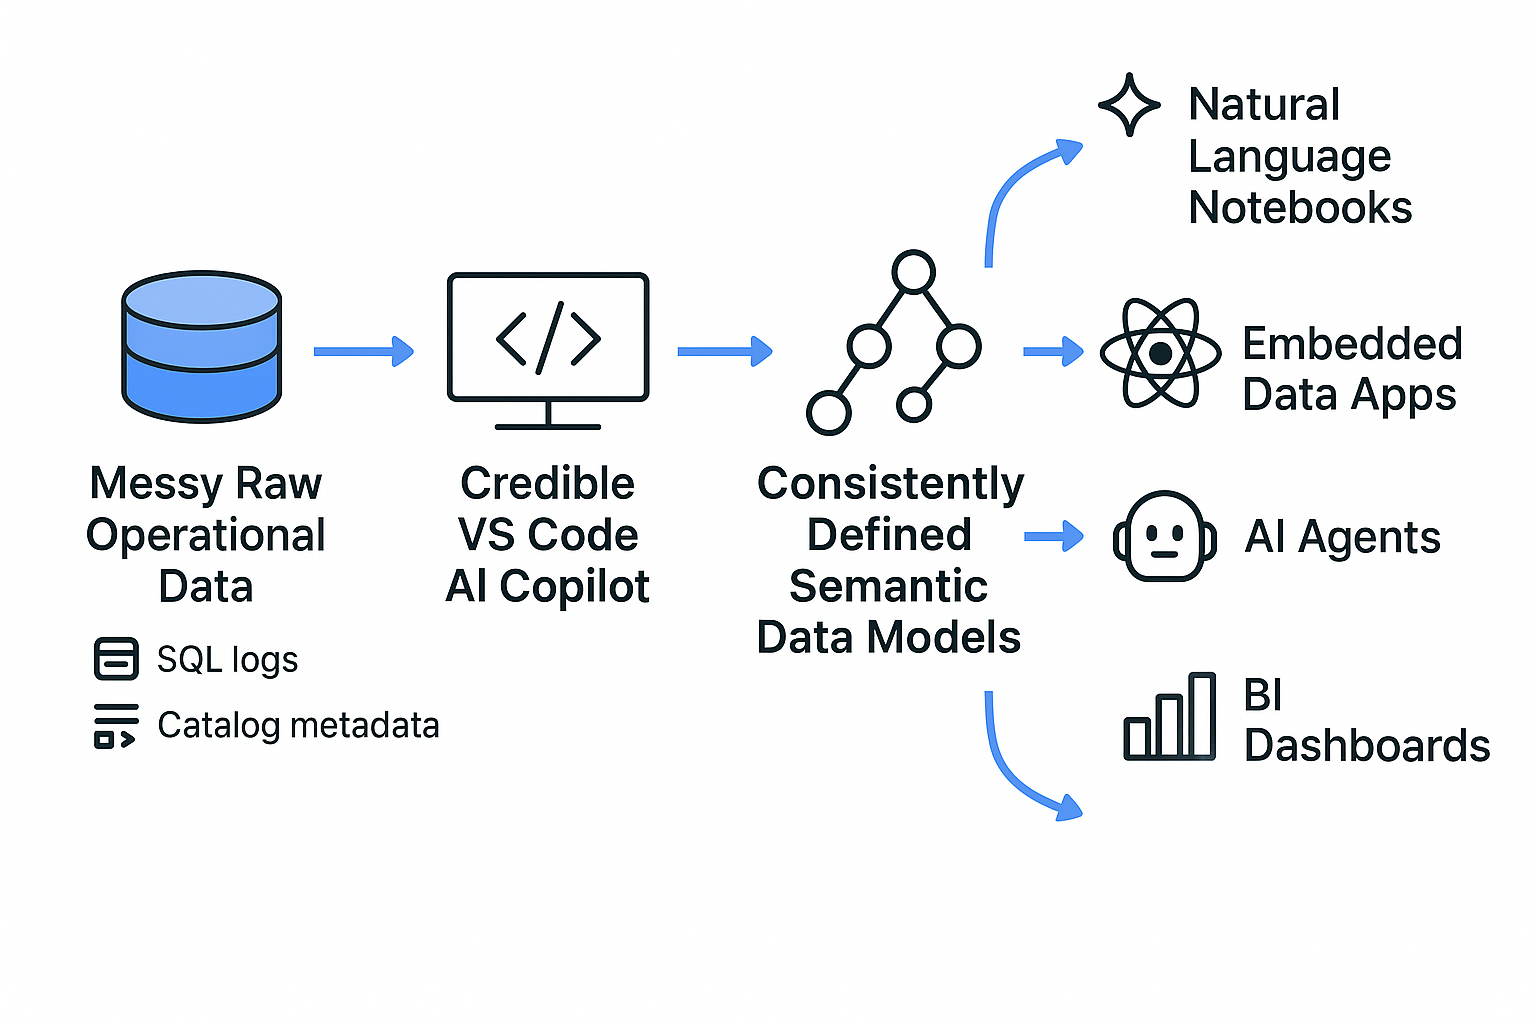
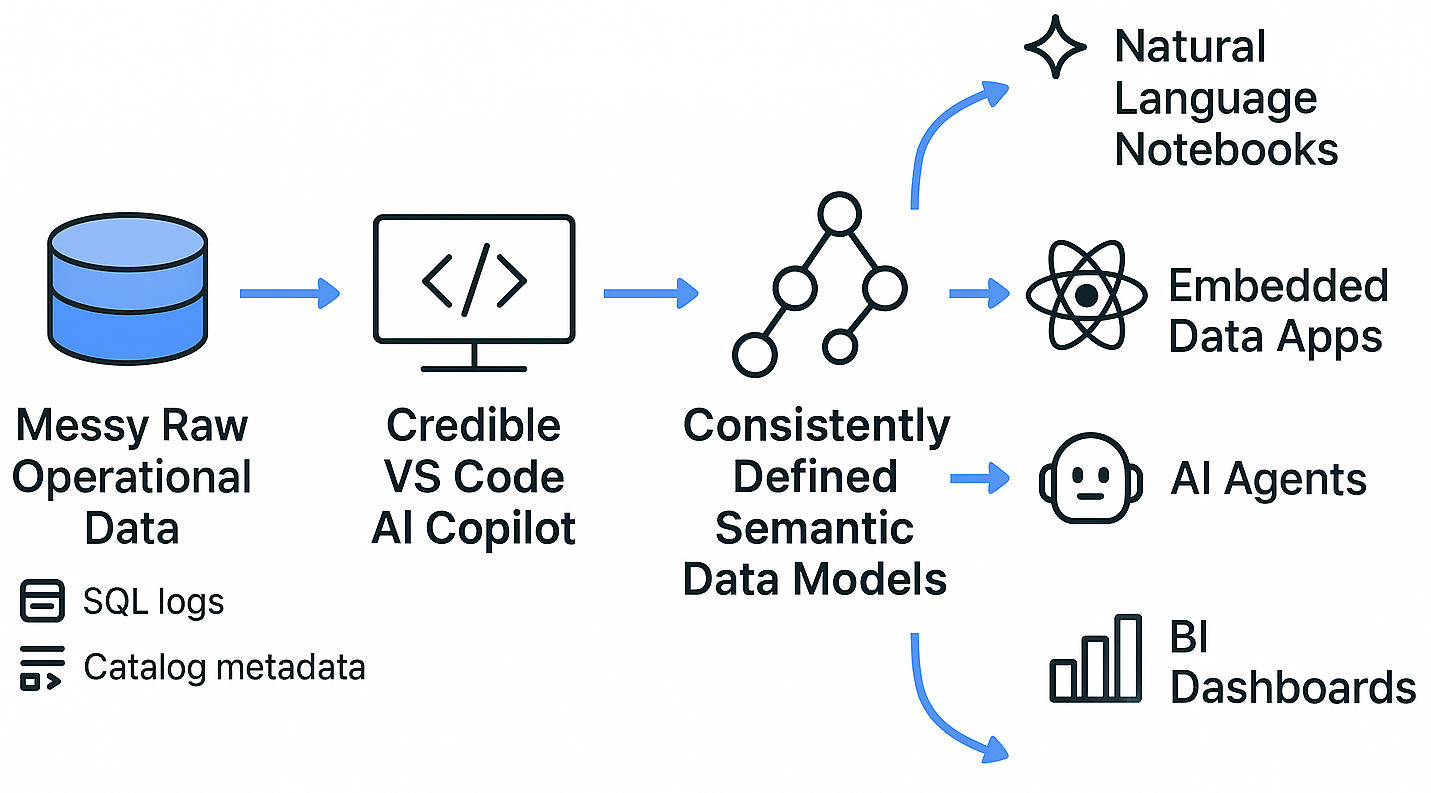
More README2.md updates

diff --git a/README2.md b/README2.md
@@ -4,7 +4,7 @@ Welcome to **Credible**, your AI-powered semantic data platform.
 
 Credible transforms the chaos of raw operational data into clean, governed, and AI-ready semantic models—and then makes those models usable everywhere. Whether you're a developer, analyst, product manager, or AI engineer, you work from the same shared foundation.
 
-Here’s how it works:
+**Here’s how it works:**
 
 - We start with operational tables, SQL logs, and catalog metadata.
 - Using our **VS Code AI Copilot**, you generate rich, structured semantic models that define your business concepts, metrics, and relationships with precision.
@@ -15,6 +15,7 @@ Here’s how it works:
   - BI Dashboards (via SQL, coming soon)
 
 <img src="overview.png" alt="Overview Diagram" width="600"/>
+> TODO: Update diagram.
 
 This Quick Start Guide will walk you through building your first semantic model, publishing it, and choosing how you want to put it to work — based on your target roles and your goals.
 
@@ -257,7 +258,7 @@ Credible makes it easy to embed governed analytics into your web applications—
 
 You can embed any analysis cell from your published Malloy notebook directly into the app.
 
-// TODO: We should embed the whole notebook.
+> TODO: We should embed the whole notebook.
 
 1. In your notebook on the Credible platform, find the analysis block you want to embed.
 2. Click the **“Embed”** button in the **MS2 toolbar** for that block.
